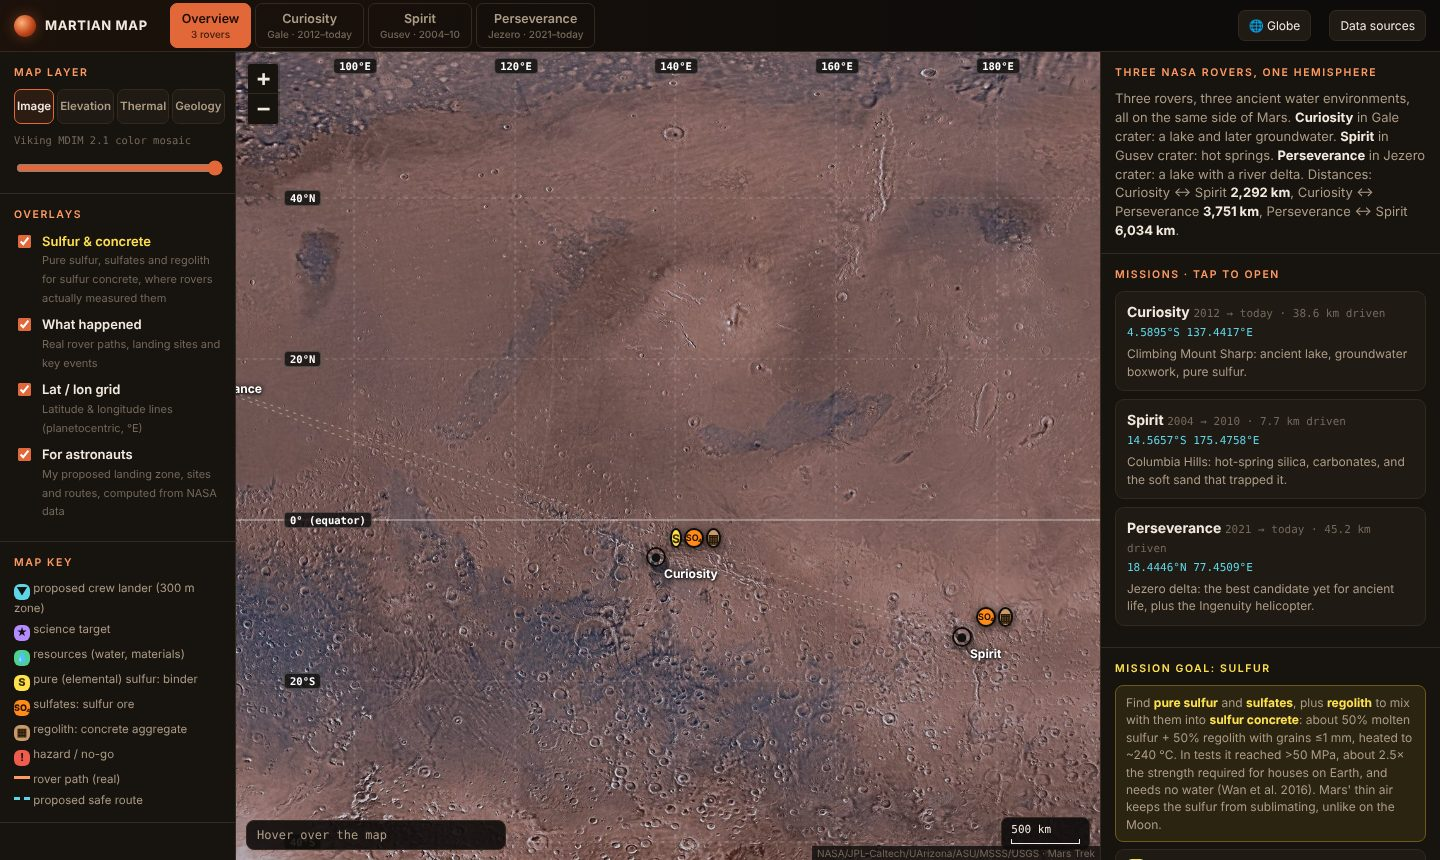
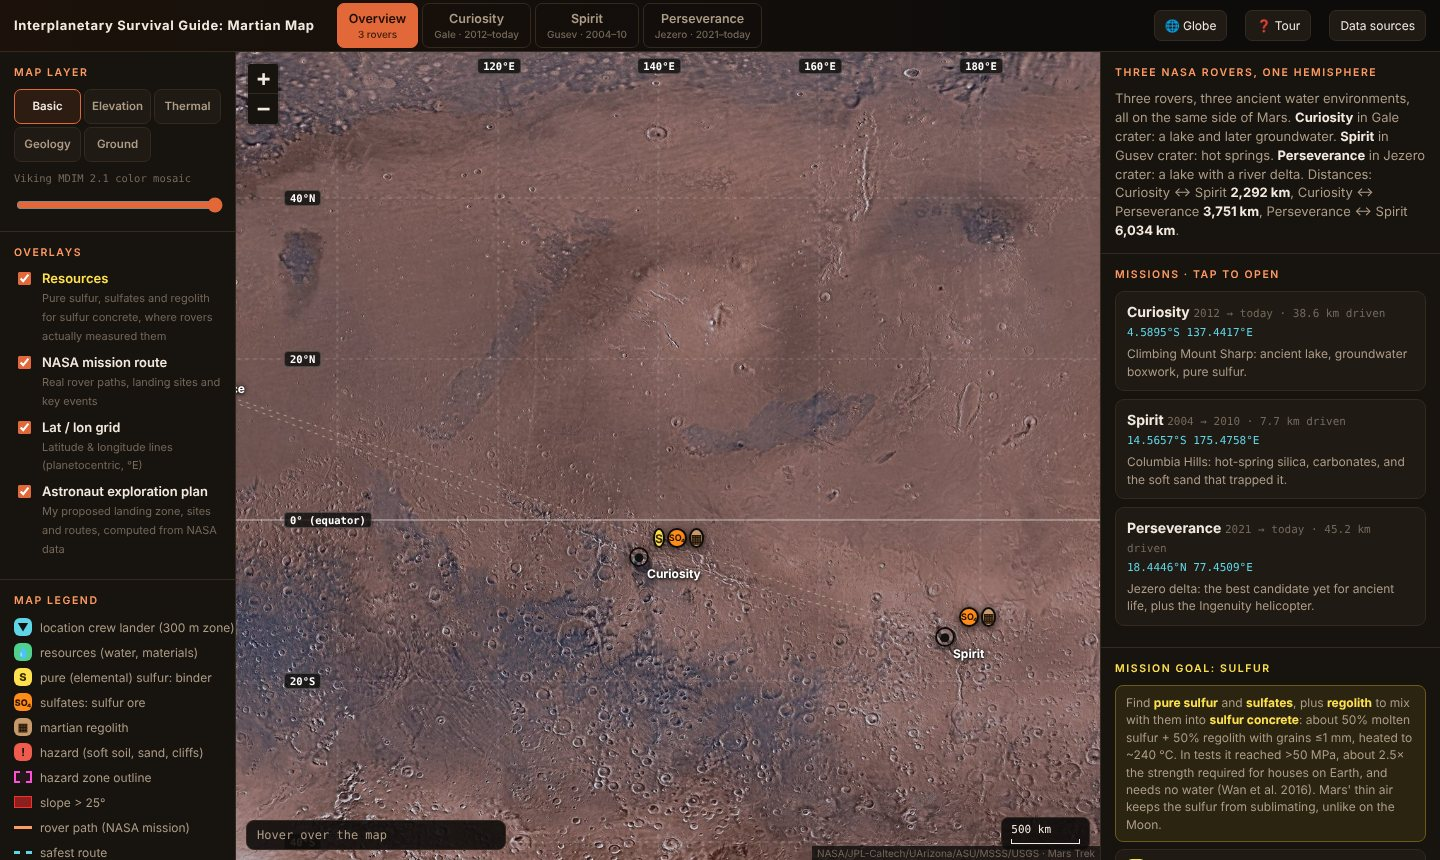
Docs: refresh all screenshots, add Ground and route-picker screenshots, update README

diff --git a/README.md b/README.md
@@ -15,12 +15,12 @@ An interactive Mars globe and map built from real NASA data. It follows three ro
 
 | | |
 |---|---|
-| **Guided tour** | A 13-step walkthrough starts on the first visit: mission paths, layers, legend symbols, overlays, the readout and the mission panel. It can be replayed with **❓ Tour**. |
+| **Guided tour** | A 14-step walkthrough starts on the first visit: mission paths, layers, legend symbols, overlays, the readout, the mission panel and picking a single route. It can be replayed with **❓ Tour**. |
 | **3D globe start** | The app opens on a rotating Mars globe (three.js). Scroll zooms toward the cursor, dragging rotates it, and clicking a rover lands on its site. Below ~300 km altitude it switches to the 2D map. |
-| **4 real data layers** | *Image* (Viking MDIM 2.1, HiRISE), *Elevation* (MOLA, HRSC, HiRISE/CTX DEMs, colored by true height with hover readout), *Thermal* (Mars Odyssey THEMIS day/night IR) and *Geology* (USGS SIM 3292 global geologic map, 44 units). |
+| **5 data layers** | *Basic* (Viking MDIM 2.1, HiRISE), *Elevation* (MOLA, HRSC, HiRISE DEMs, colored by true height with contour lines and hover readout), *Thermal* (Mars Odyssey THEMIS day/night IR plus measured rover temperatures), *Geology* (USGS SIM 3292 global geologic map, 44 units, plus orbital water-mineral detections) and *Ground* (walking conditions interpreted from MGS TES thermal inertia). |
 | **Real rover paths** | Official traverses: NASA/JPL MMGIS for Curiosity (to sol 5073) and Perseverance (to sol 2022) plus Ingenuity's 72 flights, and the PDS MER Analyst's Notebook for Spirit (sols 1–2209). The paths were checked against official odometry and against orbital imagery ([verification](docs/METHOD.md#verification-of-rover-paths)). |
 | **Resources layer** (sulfur & concrete) | Pure sulfur (S), sulfates (SO₄) and regolith aggregate (▦), each at the rover's official position on the sol of the measurement, with the finding, its use for sulfur concrete and the source. |
-| **Astronaut exploration plan (predictions)** | For each site: a proposed crew lander zone (slope + roughness + elevation), resource sites, hazard zones and no-go slopes (> 15°), and least-time walking routes that avoid both on the DEM. |
+| **Astronaut exploration plan (predictions)** | For each site: a proposed crew lander zone (slope + roughness + elevation), resource sites, hazard zones outlined from the DEMs, slopes steeper than 25° (Basic layer), and least-time walking routes that never cross terrain steeper than 15°. A route picker highlights any single route with its elevation profile. |
 | **Rover's-eye view** | Real Curiosity and Perseverance raw images taken at the event locations. |
 | **Lat / lon grid & readout** | Planetocentric graticule (°E, 0–360), with coordinates, elevation and slope under the cursor. |
 

diff --git a/docs/USER_GUIDE.md b/docs/USER_GUIDE.md
@@ -47,6 +47,8 @@ The header tabs switch between:
 
 ![Elevation, Jezero](img/04-perseverance-elevation.jpg)
 
+![Ground layer, overview](img/08-ground.jpg)
+
 ## 4. Right panel: the mission story
 
 For each mission:
@@ -56,6 +58,8 @@ For each mission:
 3. **NASA's planned route** (Curiosity) or the raw-image gallery link (Perseverance).
 4. **NASA mission route**: a timeline. Click an entry to fly to it.
 5. **Astronaut exploration plan**: the lander zone and sites. A **route picker** lists every safest route of the mission. Tap one (or click a dashed blue line on the map) to highlight it, fade the others and zoom to it. Its card gives distance, walking time, rover time, climb, steepest grade and an elevation profile coloured by slope (green <8°, yellow 8–15°, red >15°). **All routes** shows them all again.
+
+![Route picker, Curiosity](img/07-route-picker.jpg)
 
 ![Spirit, thermal night IR](img/06-spirit-thermal.jpg)
 
